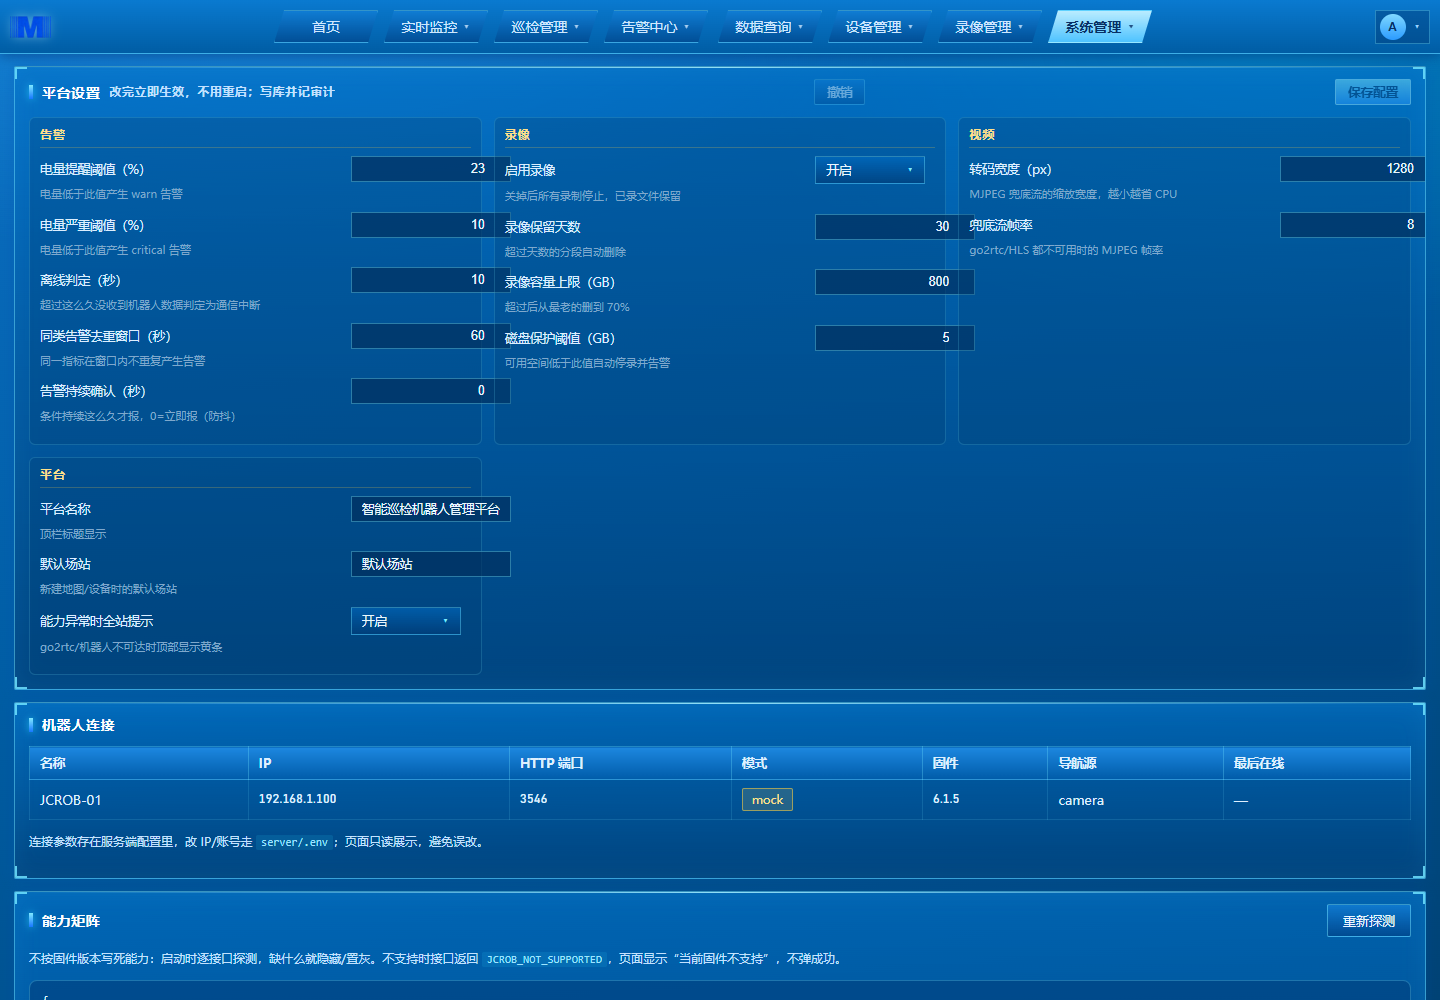
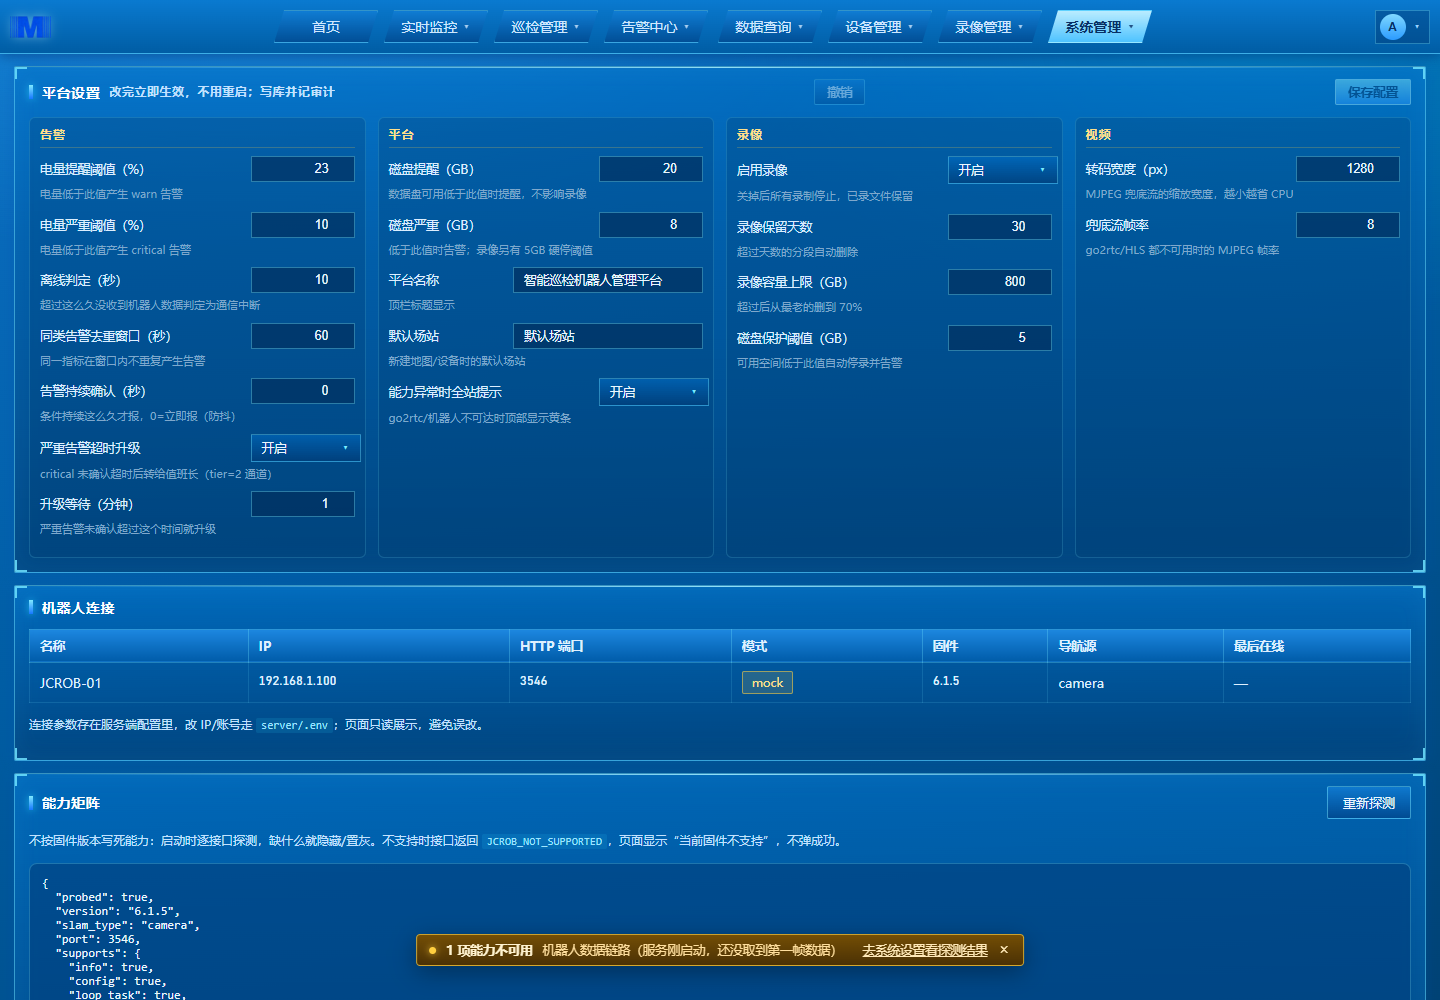
fix(ui)+feat(P1): 系统设置格错位修复 + 时钟偏差告警 + 安全管理员角色
UI（用户反馈"格子都出框了"）：
- .set-row 输入列改 minmax(0,1fr)+104px，input 设 box-sizing:border-box、min-width:0
- 文本类设置单独加宽列（190px），平台名称不再被截断
- 分组容器 overflow:hidden，栅格 min 宽度 320px
- 顺带修启动瞬间「已 -1s 未收到数据」的负值显示：改为「服务刚启动，还没取到第一帧」

P1-4 机器人时钟偏差：
- 每次轮询从 status/info/galileo 里找时间戳（秒/毫秒/ISO 都兼容），
  算与平台时间差；无时间字段返回 None（显示"未上报"，不是 0）
- 偏差超过 clock.max_skew_s（默认 2 秒）→ 产生 warn 告警，提示录像/告警/遥测会对不齐
- /robots/runtime 暴露每台设备的 clock_skew_s

P1-5 权限分离：
- 新增角色 safety（安全管理员）：可改告警类设置（alarm./notify./clock.）与传感器阈值，
  不能改录像/视频/平台设置，不能管理用户
- 系统设置接口按角色过滤可改项，越权返回 400 FORBIDDEN
- 用户管理、账号菜单、设置页同步新增角色选项

实测：
- 安全管理员改阈值 200 / 改录像保留 400 / 建用户 403；管理员均可
- 时钟：10 秒偏差 → warn 告警；无时间字段 → None；毫秒时间戳 → -3.0s
- 49 个后端用例通过（新增角色边界用例）

diff --git a/web/src/pages/Settings.vue b/web/src/pages/Settings.vue
@@ -48,6 +48,12 @@ function onEdit(key: string, raw: unknown) {
   dirty.value = { ...dirty.value, [key]: raw }
 }
 
+function canEditKey(key: string): boolean {
+  if (auth.user?.role === 'admin') return true
+  if (auth.user?.role === 'safety') return key.startsWith('alarm.') || key.startsWith('notify.') || key.startsWith('clock.')
+  return false
+}
+
 async function saveSettings() {
   if (!dirtyCount.value) return
   saving.value = true
@@ -123,7 +129,7 @@ onMounted(async () => {
       <div class="set-grid">
         <div v-for="(items, g) in groups" :key="g" class="set-group">
           <div class="set-head">{{ g }}</div>
-          <div v-for="it in items" :key="it.key" class="set-row">
+          <div v-for="it in items" :key="it.key" class="set-row" :class="{ wide: it.type === 'str' }">
             <label :title="it.effect">{{ it.label }}</label>
             <DarkSelect
               v-if="it.type === 'bool'"
@@ -235,8 +241,9 @@ onMounted(async () => {
 .small { font-size: 12px; line-height: 1.6; }
 
 /* 设置分组 */
-.set-grid { display: grid; grid-template-columns: repeat(auto-fit, minmax(360px, 1fr)); gap: 12px; }
+.set-grid { display: grid; grid-template-columns: repeat(auto-fit, minmax(320px, 1fr)); gap: 12px; }
 .set-group {
+  overflow: hidden;
   border: 1px solid rgba(111, 227, 255, 0.18);
   background: rgba(0, 60, 110, 0.28);
   border-radius: 6px; padding: 8px 10px 10px;
@@ -247,11 +254,15 @@ onMounted(async () => {
   border-bottom: 1px solid rgba(255, 207, 63, 0.22);
 }
 .set-row {
-  display: grid; grid-template-columns: 1fr 120px; gap: 8px 10px;
+  display: grid; grid-template-columns: minmax(0, 1fr) 104px; gap: 8px 10px;
   align-items: center; margin-bottom: 9px;
 }
+/* 不加这两条，input 的 padding/border 会把行撑出格子 */
+.set-row > * { min-width: 0; }
+.set-row .input, .set-row .dasel { width: 100%; box-sizing: border-box; }
+.set-row.wide { grid-template-columns: minmax(0, 1fr) 190px; }
 .set-row label { font-size: 12.5px; color: #dceeff; }
-.set-row .input { width: 100%; }
+
 .num-in { text-align: right; }
 .eff { grid-column: 1 / -1; font-size: 11px; color: #7fa8cc; line-height: 1.5; margin-top: -4px; }
 </style>

diff --git a/web/src/components/FaultBanner.vue b/web/src/components/FaultBanner.vue
@@ -25,10 +25,16 @@ async function load() {
     const h = await api.deepHealth()
     const list: { name: string; ok: boolean; detail: string }[] = []
 
+    const age = h.cache.age_s
+    const never = age < 0 || h.cache.poll_count === 0
     list.push({
       name: '机器人数据链路',
       ok: h.cache.online,
-      detail: h.cache.online ? '' : `已 ${Math.round(h.cache.age_s)}s 未收到数据${h.cache.last_error ? '：' + h.cache.last_error : ''}`,
+      detail: h.cache.online
+        ? ''
+        : never
+          ? '服务刚启动，还没取到第一帧数据'
+          : `已 ${Math.round(age)}s 未收到数据${h.cache.last_error ? '：' + h.cache.last_error : ''}`,
     })
     for (const s of h.services ?? []) {
       if (s.name === 'uvicorn' || s.name === 'server') continue

diff --git a/web/src/pages/Users.vue b/web/src/pages/Users.vue
@@ -13,11 +13,12 @@ const error = ref('')
 
 const roleOptions = [
   { value: 'admin', label: '管理员' },
+  { value: 'safety', label: '安全管理员' },
   { value: 'operator', label: '操作员' },
   { value: 'viewer', label: '只读' },
 ]
-const roleText: Record<string, string> = { admin: '管理员', operator: '操作员', viewer: '只读' }
-const roleTone: Record<string, string> = { admin: 'danger', operator: 'ok', viewer: '' }
+const roleText: Record<string, string> = { admin: '管理员', safety: '安全管理员', operator: '操作员', viewer: '只读' }
+const roleTone: Record<string, string> = { admin: 'danger', safety: 'warn', operator: 'ok', viewer: '' }
 
 const isAdmin = computed(() => auth.user?.role === 'admin')
 

diff --git a/web/src/components/UserMenu.vue b/web/src/components/UserMenu.vue
@@ -23,7 +23,7 @@ const pwdBusy = ref(false)
 
 const username = computed(() => auth.user?.username ?? '未登录')
 const initial = computed(() => username.value.slice(0, 1).toUpperCase())
-const ROLE_TEXT: Record<string, string> = { admin: '管理员', operator: '操作员', viewer: '只读' }
+const ROLE_TEXT: Record<string, string> = { admin: '管理员', safety: '安全管理员', operator: '操作员', viewer: '只读' }
 const roleText = computed(() => ROLE_TEXT[auth.user?.role ?? ''] ?? '未知角色')
 const isAdmin = computed(() => auth.user?.role === 'admin')
 

diff --git a/web/src/api/index.ts b/web/src/api/index.ts
@@ -1,6 +1,6 @@
 import { request } from './client'
 
-export type Role = 'admin' | 'operator' | 'viewer'
+export type Role = 'admin' | 'safety' | 'operator' | 'viewer'
 
 export interface User {
   id: number
@@ -38,7 +38,7 @@ export interface RecordingItem {
 export interface UserRow {
   id: number
   username: string
-  role: 'admin' | 'operator' | 'viewer'
+  role: 'admin' | 'safety' | 'operator' | 'viewer'
   is_active: boolean
   created_at: string | null
   last_login_at: string | null

diff --git a/web/src/stores/auth.ts b/web/src/stores/auth.ts
@@ -9,7 +9,7 @@ export const useAuthStore = defineStore('auth', {
   }),
   getters: {
     isLoggedIn: (s) => !!s.user,
-    canWrite: (s) => s.user?.role === 'admin' || s.user?.role === 'operator',
+    canWrite: (s) => ['admin', 'safety', 'operator'].includes(s.user?.role ?? ''),
   },
   actions: {
     async login(username: string, password: string) {

diff --git a/server/app/services/robot_runtime.py b/server/app/services/robot_runtime.py
@@ -32,6 +32,7 @@ class RobotRuntime:
     cache: StateCache = field(default_factory=StateCache)
     error: str | None = None
     task: asyncio.Task | None = None
+    clock_skew_s: float | None = None     # 机器人时间 - 平台时间（秒）
 
     def status(self) -> dict:
         snap = self.cache.as_dict()
@@ -41,6 +42,7 @@ class RobotRuntime:
             "online": snap["online"],
             "age_s": snap["age_s"],
             "last_error": self.error or snap["last_error"],
+            "clock_skew_s": self.clock_skew_s,
         }
 
 
@@ -99,6 +101,7 @@ class RobotRegistry:
                 pose = await rt.adapter.get_pose()
                 rt.cache.update(status=status, info=info, galileo=galileo, pose=pose)
                 rt.error = None
+                rt.clock_skew_s = self._check_clock(rt, status, info, galileo)
                 if self._alarms is not None:
                     self._alarms.evaluate(status=status, info=info, age_s=0.0,
                                           robot_id=rt.robot_id)
@@ -116,6 +119,53 @@ class RobotRegistry:
                 rt.error = f"{exc.__class__.__name__}: {exc}"
                 log.exception("设备 %s 轮询异常", rt.name)
             await asyncio.sleep(interval)
+
+    def _check_clock(self, rt: RobotRuntime, status: dict, info: dict, galileo: dict) -> float | None:
+        """机器人上报时间 vs 平台时间。
+
+        JCROB 不同固件字段名不一样，这里按常见键名找；找不到就返回 None
+        （= 无法核对，不是"没有偏差"），页面显示「未上报时间」。
+        """
+        raw = None
+        for src in (status, info, galileo):
+            if not isinstance(src, dict):
+                continue
+            for key in ("timestamp", "time", "ts", "now", "server_time"):
+                if key in src and src[key] is not None:
+                    raw = src[key]
+                    break
+            if raw is not None:
+                break
+        if raw is None:
+            return None
+
+        import datetime as _dt
+
+        robot_ts = None
+        if isinstance(raw, (int, float)):
+            v = float(raw)
+            robot_ts = v / 1000 if v > 1e11 else v       # 毫秒/秒都兼容
+        elif isinstance(raw, str):
+            try:
+                robot_ts = _dt.datetime.fromisoformat(raw.replace("Z", "+00:00")).timestamp()
+            except ValueError:
+                return None
+        if robot_ts is None:
+            return None
+
+        skew = round(robot_ts - _dt.datetime.now().timestamp(), 1)
+        try:
+            from app.api.v1.settings import load_all
+            limit = float(load_all().get("clock.max_skew_s", 2))
+        except Exception:  # noqa: BLE001
+            limit = 2.0
+        if abs(skew) > limit and self._alarms is not None:
+            self._alarms.raise_external(
+                metric=f"clock_skew_{rt.robot_id}", level="warn",
+                message=f"{rt.name} 时钟偏差 {skew:+.1f}s（超过 {limit:g}s），"
+                        f"录像/告警/遥测时间会对不齐",
+            )
+        return skew
 
     async def stop(self) -> None:
         for rt in self._runtimes.values():

diff --git a/server/tests/test_api.py b/server/tests/test_api.py
@@ -218,3 +218,32 @@ def test_map_point_out_of_range(auth_client):
     )
     assert bad_res.status_code == 400
     assert bad_res.json()["code"] == "BAD_RESOLUTION"
+
+
+def test_safety_role_scope(auth_client):
+    """安全管理员只能改告警类设置；运维类（录像/视频）仍归管理员。"""
+    made = auth_client.post("/api/v1/users", json={
+        "username": "safety_t", "password": "Safety12345", "role": "safety",
+    })
+    assert made.status_code == 200
+
+    # 用安全管理员登录
+    import http.cookiejar
+    from fastapi.testclient import TestClient
+    c2 = TestClient(auth_client.app)
+    r = c2.post("/api/v1/auth/login", json={"username": "safety_t", "password": "Safety12345"})
+    assert r.status_code == 200
+    c2.headers.update({"X-CSRF-Token": r.json()["csrf_token"]})
+
+    ok = c2.put("/api/v1/settings", json={"values": {"alarm.battery_warn": 21}})
+    assert ok.status_code == 200
+
+    denied = c2.put("/api/v1/settings", json={"values": {"record.keep_days": 10}})
+    assert denied.status_code == 400
+    assert denied.json()["code"] == "FORBIDDEN"
+
+    assert c2.post("/api/v1/users", json={
+        "username": "x_t", "password": "Abcd12345", "role": "viewer"}).status_code == 403
+
+    # 还原
+    auth_client.put("/api/v1/settings", json={"values": {"alarm.battery_warn": 20}})

diff --git a/server/app/api/v1/settings.py b/server/app/api/v1/settings.py
@@ -110,10 +110,21 @@ def read_settings(
 def update_settings(
     body: SettingPatch,
     db: Session = Depends(get_db),
-    me: User = Depends(require_roles("admin")),
+    me: User = Depends(require_roles("admin", "safety")),
 ) -> dict:
     if not body.values:
         raise BadRequest("没有要保存的项", code="EMPTY")
+
+    # 安全管理员只能改"和告警有关"的设置：阈值、升级、时钟偏差。
+    # 录像/视频/平台名这些运维项仍然只有 admin 能改。
+    SAFETY_PREFIXES = ("alarm.", "notify.", "clock.")
+    if me.role != "admin":
+        illegal = [k for k in body.values if not k.startswith(SAFETY_PREFIXES)]
+        if illegal:
+            raise BadRequest(
+                f"该账号只能修改告警类设置，以下项需要管理员：{', '.join(illegal)}",
+                code="FORBIDDEN",
+            )
 
     changed: dict[str, Any] = {}
     for key, raw in body.values.items():

diff --git a/server/app/api/v1/sensors.py b/server/app/api/v1/sensors.py
@@ -126,11 +126,13 @@ def update_sensor(
 
     # 把已经标定的阈值清空 = 让这个测点永久静默，属于高危动作
     threshold_keys = ("warn_low", "warn_high", "crit_low", "crit_high")
+    if any(k in body for k in threshold_keys) and me.role not in ("admin", "safety"):
+        raise BadRequest("修改阈值需要管理员或安全管理员", code="FORBIDDEN")
     if any(k in body for k in threshold_keys):
         before = any(getattr(s, k) is not None for k in threshold_keys)
         after = any((body.get(k, getattr(s, k)) is not None) for k in threshold_keys)
         if before and not after:
-            if me.role != "admin":
+            if me.role not in ("admin", "safety"):
                 raise BadRequest("清空阈值会让该测点停止告警，只有管理员可以操作",
                                  code="NEED_ADMIN")
             from app.services.messages import store as msg_store

diff --git a/server/app/services/settings_schema.py b/server/app/services/settings_schema.py
@@ -43,6 +43,11 @@ SCHEMA: dict[str, dict[str, Any]] = {
         "group": "告警", "effect": "严重告警未确认超过这个时间就升级",
     },
 
+    "clock.max_skew_s": {
+        "label": "时钟偏差告警（秒）", "type": "int", "default": 2, "min": 1, "max": 600,
+        "group": "平台", "effect": "机器人上报时间与平台差超过此值时告警（时间对不齐就没法复盘）",
+    },
+
     # ---- 磁盘 ----
     "disk.warn_free_gb": {
         "label": "磁盘提醒（GB）", "type": "int", "default": 20, "min": 1, "max": 500,

diff --git a/server/app/api/v1/users.py b/server/app/api/v1/users.py
@@ -24,7 +24,7 @@ from app.services.messages import audit, store as msg_store
 
 router = APIRouter(prefix="/users", tags=["users"])
 
-ROLES = ("admin", "operator", "viewer")
+ROLES = ("admin", "safety", "operator", "viewer")
 
 
 class UserOut(BaseModel):
